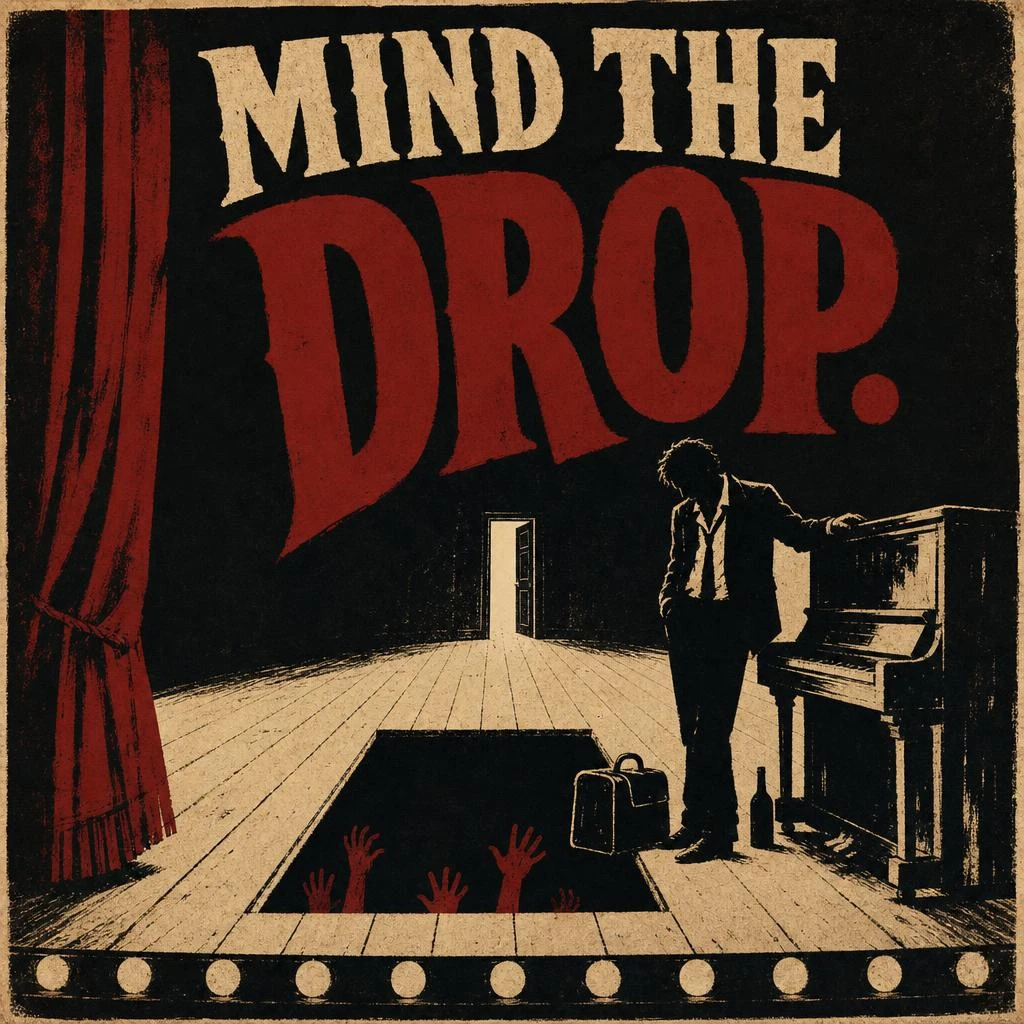
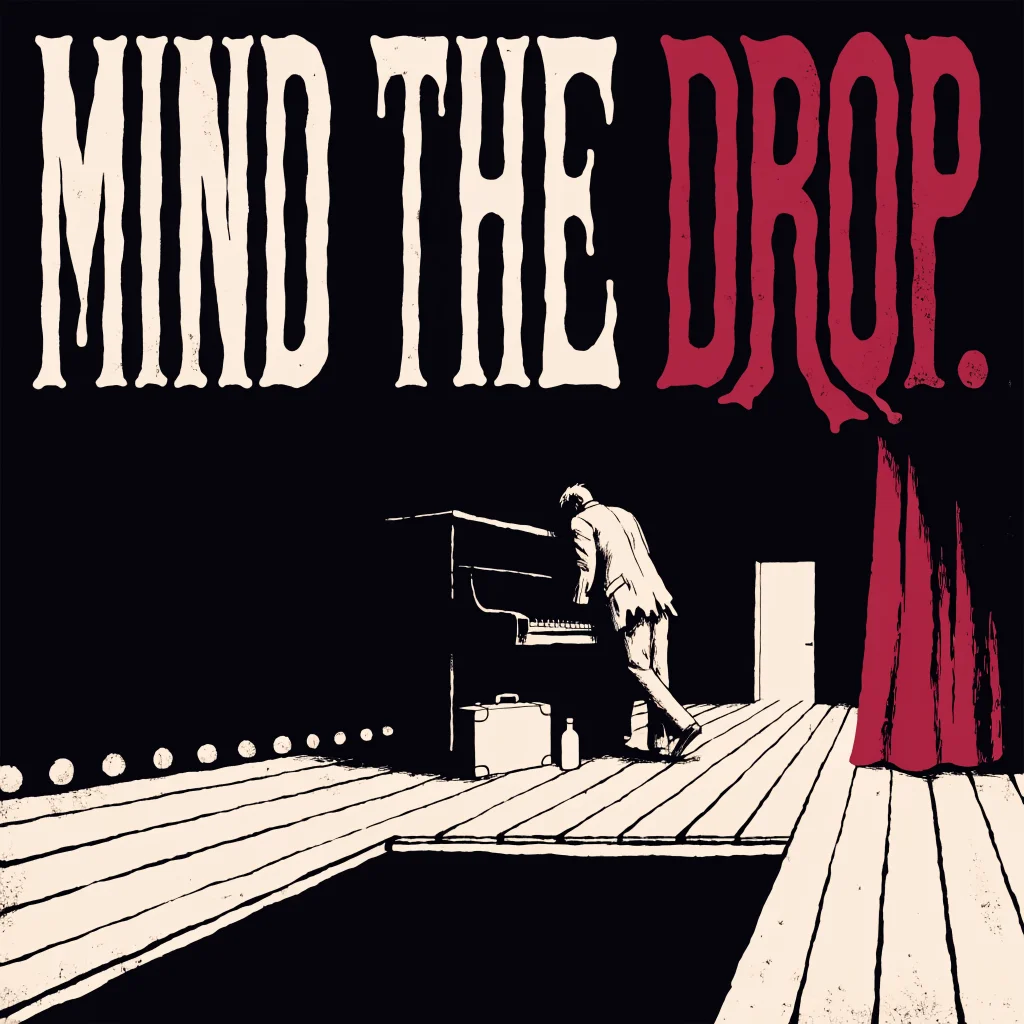
Replace Mind the Drop title art with new version; bump cache param

diff --git a/songs/junkyard-cabaret/mind-the-drop/index.html b/songs/junkyard-cabaret/mind-the-drop/index.html
@@ -13,7 +13,7 @@
     <meta property="og:url" content="https://charleswilke.com/songs/junkyard-cabaret/mind-the-drop/">
     <meta property="og:title" content="Mind the Drop | Junkyard Cabaret">
     <meta property="og:description" content="A track from Junkyard Cabaret. A ramshackle album-in-progress exploring conviction, imperfection, and the human insistence on making things by hand.">
-    <meta property="og:image" content="https://charleswilke.com/audio/junkyard-cabaret/mind-the-drop-title.webp?v=202606201513">
+    <meta property="og:image" content="https://charleswilke.com/audio/junkyard-cabaret/mind-the-drop-title.webp?v=202607041720">
     <meta property="og:image:width" content="1024">
     <meta property="og:image:height" content="1024">
     <meta property="og:image:alt" content="Mind the Drop title art">
@@ -22,7 +22,7 @@
     <meta name="twitter:url" content="https://charleswilke.com/songs/junkyard-cabaret/mind-the-drop/">
     <meta name="twitter:title" content="Mind the Drop | Junkyard Cabaret">
     <meta name="twitter:description" content="A track from Junkyard Cabaret. A ramshackle album-in-progress exploring conviction, imperfection, and the human insistence on making things by hand.">
-    <meta name="twitter:image" content="https://charleswilke.com/audio/junkyard-cabaret/mind-the-drop-title.webp?v=202606201513">
+    <meta name="twitter:image" content="https://charleswilke.com/audio/junkyard-cabaret/mind-the-drop-title.webp?v=202607041720">
     <meta name="twitter:image:alt" content="Mind the Drop title art">
 
     <link rel="icon" type="image/x-icon" href="/favicon.ico?v=202607032147">
@@ -41,7 +41,7 @@
     "name": "Junkyard Cabaret"
   },
   "url": "https://charleswilke.com/songs/junkyard-cabaret/mind-the-drop/",
-  "image": "https://charleswilke.com/audio/junkyard-cabaret/mind-the-drop-title.webp?v=202606201513"
+  "image": "https://charleswilke.com/audio/junkyard-cabaret/mind-the-drop-title.webp?v=202607041720"
 }
     </script>
 

diff --git a/main.js b/main.js
@@ -4251,7 +4251,7 @@ function initJCLightbox() {
         { title: 'Refuse the Frequency', file: 'audio/junkyard-cabaret/refuse-the-frequency.mp3?v=202606190959', cover: 'audio/junkyard-cabaret/refuse-the-frequency-title.webp?v=202606142108', article: 'https://charleswilke.substack.com/p/salve-for-the-algorithmic-rash' },
         { title: 'Three Fifteen', file: 'audio/junkyard-cabaret/three-fifteen.mp3', cover: 'audio/junkyard-cabaret/three-fifteen-title.webp?v=202607041707', article: 'https://charleswilke.substack.com/p/accumulated-velocity' },
         { title: 'Fits and Starts', file: 'audio/junkyard-cabaret/fits-and-starts.mp3?v=202607041700', cover: 'audio/junkyard-cabaret/fits-and-starts-title.webp?v=202606142108', article: 'https://charleswilke.substack.com/p/fits-and-starts' },
-        { title: 'Mind the Drop', file: 'audio/junkyard-cabaret/mind-the-drop.mp3?v=202606261404', cover: 'audio/junkyard-cabaret/mind-the-drop-title.webp?v=202606201513', article: 'https://charleswilke.substack.com/p/creative-spirits' },
+        { title: 'Mind the Drop', file: 'audio/junkyard-cabaret/mind-the-drop.mp3?v=202606261404', cover: 'audio/junkyard-cabaret/mind-the-drop-title.webp?v=202607041720', article: 'https://charleswilke.substack.com/p/creative-spirits' },
         { title: "Morning's Flood", file: 'audio/junkyard-cabaret/mornings-flood.mp3?v=202607041109', cover: 'audio/junkyard-cabaret/mornings-flood-title.webp', article: 'https://charleswilke.substack.com/p/cherish-your-confident-ire' }
     ];
 
